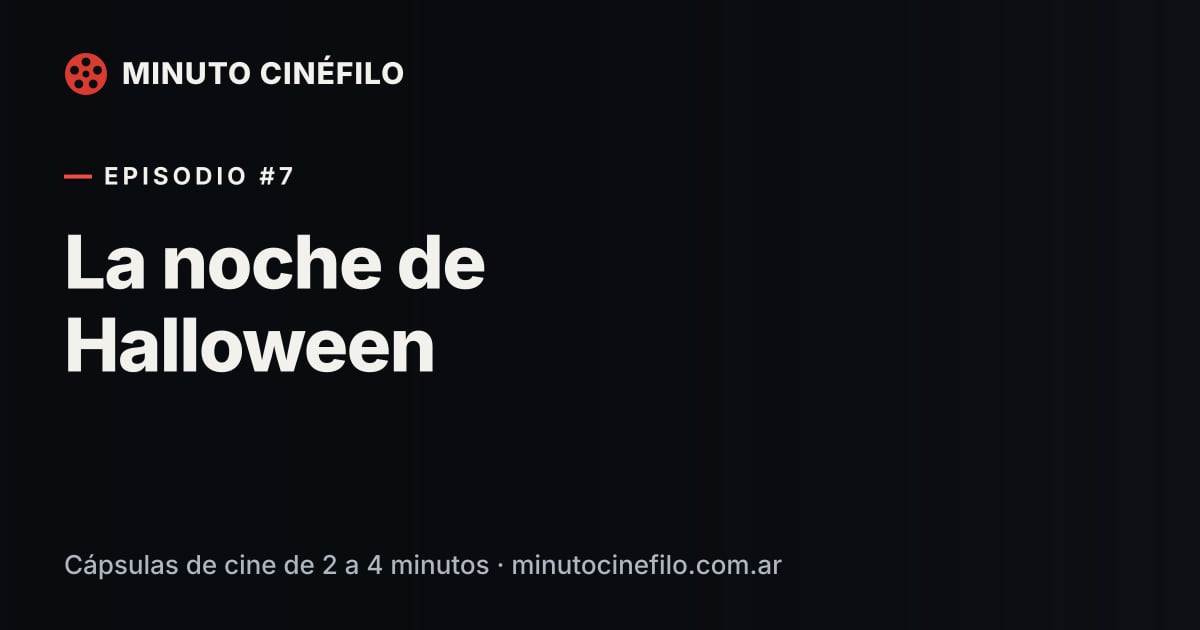
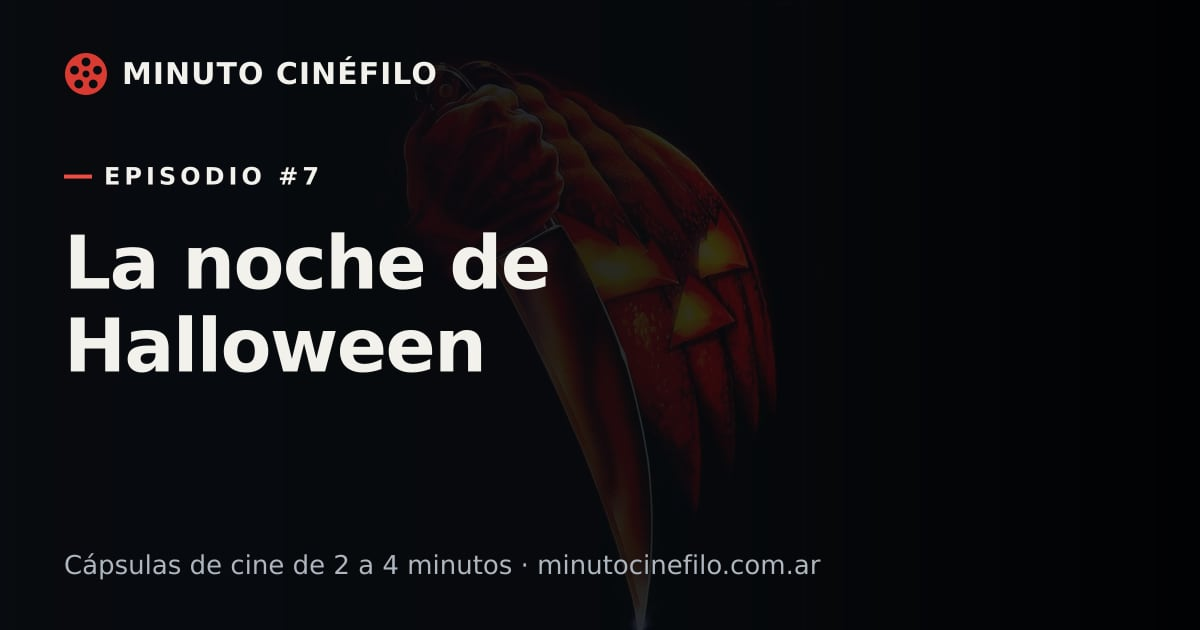
Generar páginas de cápsulas

Changed region(s): [[0.0617, 0.1206, 0.6783, 1.0], [0.0925, 0.0905, 0.37, 0.1508], [0.0925, 0.2413, 0.2775, 0.3016]]

diff --git a/capsulas/halloween/index.html b/capsulas/halloween/index.html
@@ -105,7 +105,7 @@ nav::-webkit-scrollbar{display:none}nav a{white-space:nowrap;padding:8px 0}
 <nav aria-label="Principal"><a href="../../">Inicio</a><a href="../../#archivo">Episodios</a><a href="../../#sobre">Sobre el proyecto</a><a href="https://www.radiomonk.com.ar" target="_blank" rel="noopener">Radio Monk</a><a href="https://www.instagram.com/somosminutocinefilo" target="_blank" rel="noopener">Instagram</a></nav></div></header>
 <main id="contenido"><div class="wrap" style="padding-block:clamp(48px,8vw,112px)">
 <a class="back" href="../../#archivo">← Todos los episodios</a>
-<div class="latest" style="margin-top:0"><div class="poster"><span>Póster no disponible</span></div>
+<div class="latest" style="margin-top:0"><div class="poster"><img src="https://image.tmdb.org/t/p/w500/6bsDpDL312h6vEGPOPWoweaZWUG.jpg" alt="Póster de Halloween"><span class="score" title="Puntaje de los usuarios de TMDB (6481 votos)">★ 7.6 <small>TMDB</small></span></div>
 <div><p class="label" style="margin-bottom:12px">Episodio #7</p><h1 class="film" style="font-size:clamp(30px,4vw,52px)">La noche de Halloween</h1><p style="color:var(--mute);font-size:18px;margin-top:6px">Halloween</p>
 <div class="meta"><time datetime="2026-10-31">31 de octubre de 2026</time><span id="dur"></span></div>
 <p class="desc">Hay películas que necesitan monstruos gigantes, criaturas sobrenaturales o litros de sangre para provocar miedo. Y después está *Halloween*, una película que consiguió algo mucho más sencillo… y mucho más aterrador: convertir una calle tranquila de un barrio estadounidense en el escenario de una pesadilla.</p><div class="player v" role="group" aria-label="Reproductor de La noche de Halloween">
@@ -116,7 +116,9 @@ nav::-webkit-scrollbar{display:none}nav a{white-space:nowrap;padding:8px 0}
 <div class="share"><span>Compartir</span><a href="https://wa.me/?text=Escuch%C3%A1%20%C2%ABHalloween%C2%BB%20en%20Minuto%20Cin%C3%A9filo%20https%3A%2F%2Fminutocinefilo.com.ar%2Fcapsulas%2Fhalloween%2F" target="_blank" rel="noopener">WhatsApp</a><a href="https://t.me/share/url?url=https%3A%2F%2Fminutocinefilo.com.ar%2Fcapsulas%2Fhalloween%2F&text=Escuch%C3%A1%20%C2%ABHalloween%C2%BB%20en%20Minuto%20Cin%C3%A9filo" target="_blank" rel="noopener">Telegram</a><a href="https://twitter.com/intent/tweet?text=Escuch%C3%A1%20%C2%ABHalloween%C2%BB%20en%20Minuto%20Cin%C3%A9filo&url=https%3A%2F%2Fminutocinefilo.com.ar%2Fcapsulas%2Fhalloween%2F" target="_blank" rel="noopener">X</a><a href="https://www.facebook.com/sharer/sharer.php?u=https%3A%2F%2Fminutocinefilo.com.ar%2Fcapsulas%2Fhalloween%2F" target="_blank" rel="noopener">Facebook</a><button type="button" id="copy">Copiar enlace</button></div>
 <div class="share subs"><span>Escuchá en</span><a href="https://open.spotify.com/show/4pyAXOjqZNmFPgTE0TFktl" target="_blank" rel="noopener">Spotify</a><a href="https://www.youtube.com/playlist?list=PLRENQuFBczTw" target="_blank" rel="noopener">YouTube Music</a><a href="../../feed.xml">RSS</a></div>
 </div></div>
-<div class="cols"><div><section id="transcripcion" aria-labelledby="tg" style="padding:0"><h2 id="tg" style="font-size:22px;margin-bottom:12px">Guion</h2><div style="height:12px"></div><p class="trans">Hay películas que necesitan monstruos gigantes, criaturas sobrenaturales o litros de sangre para provocar miedo. Y después está <em>Halloween</em>, una película que consiguió algo mucho más sencillo… y mucho más aterrador: convertir una calle tranquila de un barrio estadounidense en el escenario de una pesadilla.</p><p class="trans">Estrenada en 1978 y dirigida por John Carpenter, <em>Halloween</em> nos presenta a Michael Myers, un niño que, durante la noche del 31 de octubre de 1963, asesina brutalmente a su hermana mayor. Quince años después, escapa del hospital psiquiátrico donde permanece internado y regresa a su pueblo natal. Allí comienza a perseguir a Laurie Strode, una joven estudiante interpretada por Jamie Lee Curtis, que termina convirtiéndose en el blanco de una auténtica pesadilla.</p><p class="trans">Pero detrás de este clásico hay una historia de producción tan interesante como la propia película.</p><p class="trans">Originalmente, el proyecto tenía otro nombre: <em>The Babysitter Murders</em>. La idea era contar la historia de un asesino que perseguía niñeras. Fue el productor Irwin Yablans quien propuso trasladar los acontecimientos a la noche de Halloween y aprovechar esa celebración como parte fundamental de la historia. Y vaya si funcionó.</p><p class="trans">Con un presupuesto de apenas 300.000 dólares, Carpenter tuvo que ingeniárselas para construir una película que pareciera mucho más grande de lo que realmente era. El rodaje duró aproximadamente veinte días y se realizó durante la primavera, aunque la historia transcurre en pleno otoño. Para conseguir esa ambientación, el equipo utilizó hojas artificiales que recogía y reutilizaba después de cada toma.</p><p class="trans">Y hay un detalle todavía más increíble: la icónica máscara de Michael Myers costó apenas un dólar con noventa y ocho centavos. El diseñador de producción Tommy Lee Wallace compró una máscara del Capitán Kirk, el personaje de William Shatner en Star Trek. Le modificó los ojos, la pintó de blanco y oscureció el cabello. El resultado fue ese rostro inexpresivo, casi humano, que terminaría convirtiéndose en una de las imágenes más reconocibles del cine de terror.</p><p class="trans">Otro de los grandes responsables del miedo es el propio Carpenter, que además de dirigir y coescribir la película junto a Debra Hill, compuso su inolvidable banda sonora.</p><p class="trans">El famoso tema principal, construido sobre un ritmo de cinco por cuatro, tiene una particularidad: parece que nunca termina de encontrar estabilidad. Es repetitivo, hipnótico y perturbador. Carpenter no necesitó una orquesta gigantesca. Con unos pocos sintetizadores consiguió crear una melodía que, décadas después, todavía alcanza para ponernos los pelos de punta.</p><p class="trans">Y eso es justamente lo que hace especial a <em>Halloween</em>. Michael Myers no necesita hablar, explicar sus motivaciones ni tener una historia detrás. Es una presencia que aparece y desaparece, que observa desde la distancia y que parece estar siempre un paso más cerca de sus víctimas.</p><p class="trans">La película también ayudó a establecer las bases del slasher moderno, popularizando elementos que después serían imitados hasta el cansancio: el asesino enmascarado, las adolescentes perseguidas, la superviviente que debe enfrentarse al monstruo y esa sensación de que nadie está realmente a salvo.</p><p class="trans">Con el tiempo, <em>Halloween</em> dio origen a una enorme franquicia, secuelas, reinicios y toda una generación de películas inspiradas en su fórmula.</p><p class="trans">Pero ninguna consiguió reproducir completamente aquella atmósfera original.</p><p class="trans">Porque, al final, el verdadero terror de <em>Halloween</em> no está en lo que vemos… sino en lo que creemos haber visto cuando miramos hacia el fondo de una habitación, una ventana o una calle vacía.</p><p class="trans">Y si alguna vez escuchás tres notas repetirse mientras caminás solo de noche… quizás sea mejor que no mires hacia atrás.</p><p class="trans">*<em>Minuto Cinéfilo. Luces, cámara y unos minutos más.</em>*</p></section></div></div>
+<div class="cols"><div><section id="trailer" aria-labelledby="tt" style="padding:0 0 44px"><h2 id="tt" style="font-size:22px;margin-bottom:16px">Tráiler</h2><div class="trl"><button class="trbtn img" id="trbtn" type="button" data-id="NT0loXUv-ks" data-t="Tráiler de Halloween" style="background-image:url('https://image.tmdb.org/t/p/w1280/sHI9xlFRWCJ38AIIfOqnGjuEvXz.jpg')"><span class="pl"><svg viewBox="0 0 24 24" fill="currentColor" aria-hidden="true"><path d="M8 5v14l11-7z"/></svg></span><span>Ver el tráiler</span></button><a href="https://www.youtube.com/watch?v=NT0loXUv-ks" target="_blank" rel="noopener">Abrir en YouTube ↗</a></div></section><section id="transcripcion" aria-labelledby="tg" style="padding:0"><h2 id="tg" style="font-size:22px;margin-bottom:12px">Guion</h2><div style="height:12px"></div><p class="trans">Hay películas que necesitan monstruos gigantes, criaturas sobrenaturales o litros de sangre para provocar miedo. Y después está <em>Halloween</em>, una película que consiguió algo mucho más sencillo… y mucho más aterrador: convertir una calle tranquila de un barrio estadounidense en el escenario de una pesadilla.</p><p class="trans">Estrenada en 1978 y dirigida por John Carpenter, <em>Halloween</em> nos presenta a Michael Myers, un niño que, durante la noche del 31 de octubre de 1963, asesina brutalmente a su hermana mayor. Quince años después, escapa del hospital psiquiátrico donde permanece internado y regresa a su pueblo natal. Allí comienza a perseguir a Laurie Strode, una joven estudiante interpretada por Jamie Lee Curtis, que termina convirtiéndose en el blanco de una auténtica pesadilla.</p><p class="trans">Pero detrás de este clásico hay una historia de producción tan interesante como la propia película.</p><p class="trans">Originalmente, el proyecto tenía otro nombre: <em>The Babysitter Murders</em>. La idea era contar la historia de un asesino que perseguía niñeras. Fue el productor Irwin Yablans quien propuso trasladar los acontecimientos a la noche de Halloween y aprovechar esa celebración como parte fundamental de la historia. Y vaya si funcionó.</p><p class="trans">Con un presupuesto de apenas 300.000 dólares, Carpenter tuvo que ingeniárselas para construir una película que pareciera mucho más grande de lo que realmente era. El rodaje duró aproximadamente veinte días y se realizó durante la primavera, aunque la historia transcurre en pleno otoño. Para conseguir esa ambientación, el equipo utilizó hojas artificiales que recogía y reutilizaba después de cada toma.</p><p class="trans">Y hay un detalle todavía más increíble: la icónica máscara de Michael Myers costó apenas un dólar con noventa y ocho centavos. El diseñador de producción Tommy Lee Wallace compró una máscara del Capitán Kirk, el personaje de William Shatner en Star Trek. Le modificó los ojos, la pintó de blanco y oscureció el cabello. El resultado fue ese rostro inexpresivo, casi humano, que terminaría convirtiéndose en una de las imágenes más reconocibles del cine de terror.</p><p class="trans">Otro de los grandes responsables del miedo es el propio Carpenter, que además de dirigir y coescribir la película junto a Debra Hill, compuso su inolvidable banda sonora.</p><p class="trans">El famoso tema principal, construido sobre un ritmo de cinco por cuatro, tiene una particularidad: parece que nunca termina de encontrar estabilidad. Es repetitivo, hipnótico y perturbador. Carpenter no necesitó una orquesta gigantesca. Con unos pocos sintetizadores consiguió crear una melodía que, décadas después, todavía alcanza para ponernos los pelos de punta.</p><p class="trans">Y eso es justamente lo que hace especial a <em>Halloween</em>. Michael Myers no necesita hablar, explicar sus motivaciones ni tener una historia detrás. Es una presencia que aparece y desaparece, que observa desde la distancia y que parece estar siempre un paso más cerca de sus víctimas.</p><p class="trans">La película también ayudó a establecer las bases del slasher moderno, popularizando elementos que después serían imitados hasta el cansancio: el asesino enmascarado, las adolescentes perseguidas, la superviviente que debe enfrentarse al monstruo y esa sensación de que nadie está realmente a salvo.</p><p class="trans">Con el tiempo, <em>Halloween</em> dio origen a una enorme franquicia, secuelas, reinicios y toda una generación de películas inspiradas en su fórmula.</p><p class="trans">Pero ninguna consiguió reproducir completamente aquella atmósfera original.</p><p class="trans">Porque, al final, el verdadero terror de <em>Halloween</em> no está en lo que vemos… sino en lo que creemos haber visto cuando miramos hacia el fondo de una habitación, una ventana o una calle vacía.</p><p class="trans">Y si alguna vez escuchás tres notas repetirse mientras caminás solo de noche… quizás sea mejor que no mires hacia atrás.</p><p class="trans">*<em>Minuto Cinéfilo. Luces, cámara y unos minutos más.</em>*</p></section></div><aside class="ficha" aria-labelledby="tf"><h2 id="tf">Datos de la película</h2><dl>
+<div class="r"><svg viewBox="0 0 24 24" width="18" height="18" fill="none" stroke="currentColor" stroke-width="1.6" stroke-linecap="round" stroke-linejoin="round" aria-hidden="true"><rect x="4" y="4" width="16" height="16" rx="2"/><path d="M8 4v16M16 4v16M4 9h4M4 15h4M16 9h4M16 15h4"/></svg><div><dt>Título original</dt><dd>Halloween</dd></div></div><div class="r"><svg viewBox="0 0 24 24" width="18" height="18" fill="none" stroke="currentColor" stroke-width="1.6" stroke-linecap="round" stroke-linejoin="round" aria-hidden="true"><path d="M4 6h9M8.5 4v2M6 6c0 4 3 7 6.5 8M11 6c0 3-2.5 6.5-6 8"/><path d="M13 20l4-9 4 9M14.5 17h5"/></svg><div><dt>Título en español</dt><dd>La noche de Halloween</dd></div></div><div class="r"><svg viewBox="0 0 24 24" width="18" height="18" fill="none" stroke="currentColor" stroke-width="1.6" stroke-linecap="round" stroke-linejoin="round" aria-hidden="true"><rect x="4" y="5" width="16" height="15" rx="2"/><path d="M4 10h16M8 3v4M16 3v4"/></svg><div><dt>Año</dt><dd>1978</dd></div></div><div class="r"><svg viewBox="0 0 24 24" width="18" height="18" fill="none" stroke="currentColor" stroke-width="1.6" stroke-linecap="round" stroke-linejoin="round" aria-hidden="true"><circle cx="12" cy="12" r="8.5"/><path d="M12 7.5V12l3 2"/></svg><div><dt>Duración</dt><dd>1 h 31 min</dd></div></div><div class="r"><svg viewBox="0 0 24 24" width="18" height="18" fill="none" stroke="currentColor" stroke-width="1.6" stroke-linecap="round" stroke-linejoin="round" aria-hidden="true"><path d="M5 21V4M5 5h11l-2 4 2 4H5"/></svg><div><dt>País</dt><dd>Estados Unidos</dd></div></div><div class="r"><svg viewBox="0 0 24 24" width="18" height="18" fill="none" stroke="currentColor" stroke-width="1.6" stroke-linecap="round" stroke-linejoin="round" aria-hidden="true"><circle cx="12" cy="9" r="5"/><path d="M9 13.5L7.5 21l4.5-2.5 4.5 2.5L15 13.5"/></svg><div><dt>Director</dt><dd>John Carpenter</dd></div></div><div class="r"><svg viewBox="0 0 24 24" width="18" height="18" fill="none" stroke="currentColor" stroke-width="1.6" stroke-linecap="round" stroke-linejoin="round" aria-hidden="true"><circle cx="12" cy="8" r="3.5"/><path d="M5 20c0-4 3-6 7-6s7 2 7 6"/></svg><div><dt>Reparto principal</dt><dd>Donald Pleasence, Jamie Lee Curtis, Nancy Kyes, P. J. Soles</dd></div></div><div class="r"><svg viewBox="0 0 24 24" width="18" height="18" fill="none" stroke="currentColor" stroke-width="1.6" stroke-linecap="round" stroke-linejoin="round" aria-hidden="true"><path d="M4 5h16v6c0 5-3.5 8-8 8s-8-3-8-8z"/><path d="M9 10v1M15 10v1M9.5 14.5c1.5 1.2 3.5 1.2 5 0"/></svg><div><dt>Géneros</dt><dd>Terror, Suspense</dd></div></div></dl>
+<a class="tm" href="https://www.themoviedb.org/movie/948" target="_blank" rel="noopener">Ver en TMDB ↗</a></aside></div>
 </div>
 <div class="wrap"><nav class="epnav" aria-label="Más episodios"><a class="ant" href="../buddy-06/"><small>← Episodio anterior</small><span>Buddy</span></a><span></span></nav></div></main>
 <footer><div class="wrap"><span>© 2026 Minuto Cinéfilo</span><em>Luces, cámara y unos minutos más.</em></div>
@@ -140,5 +142,11 @@ vo.oninput=()=>{a.volume=vo.value};
 ps.forEach(p=>{const go=()=>{a.currentTime=+p.dataset.t;a.play()};p.onclick=go;p.onkeydown=e=>{if(e.key==='Enter'||e.key===' '){e.preventDefault();go()}}});
 const cp=document.getElementById('copy');if(cp)cp.onclick=async()=>{try{await navigator.clipboard.writeText(location.href.split('#')[0]);cp.textContent='¡Copiado!'}catch(e){prompt('Copiá el enlace:',location.href)}};
 </script>
-
+<script>
+const b=document.getElementById('trbtn');
+if(b)b.onclick=()=>{const a=document.getElementById('au');if(a)a.pause();
+const f=document.createElement('iframe');f.src='https://www.youtube-nocookie.com/embed/'+b.dataset.id+'?autoplay=1&rel=0';
+f.title=b.dataset.t;f.allow='autoplay; encrypted-media; picture-in-picture; fullscreen';f.allowFullscreen=true;f.referrerPolicy='strict-origin-when-cross-origin';
+b.replaceWith(f)};
+</script>
 </body></html>
